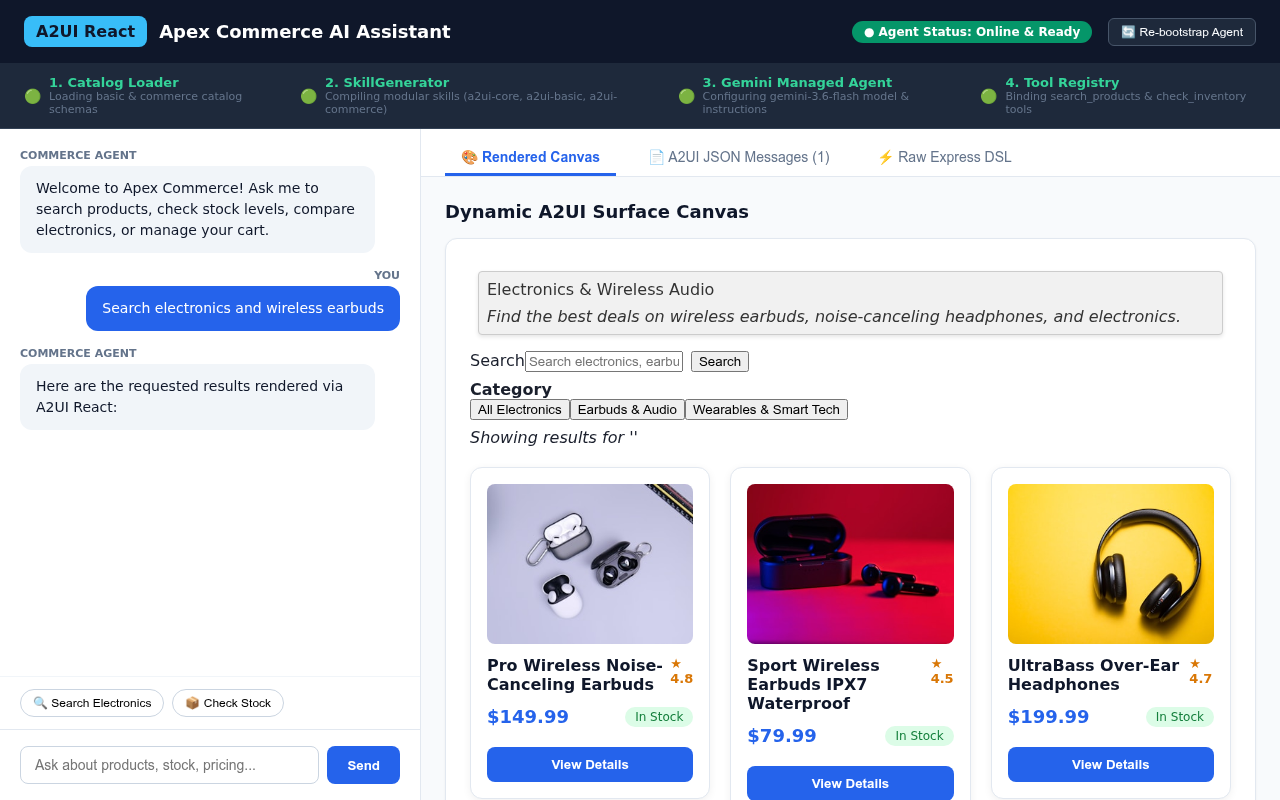
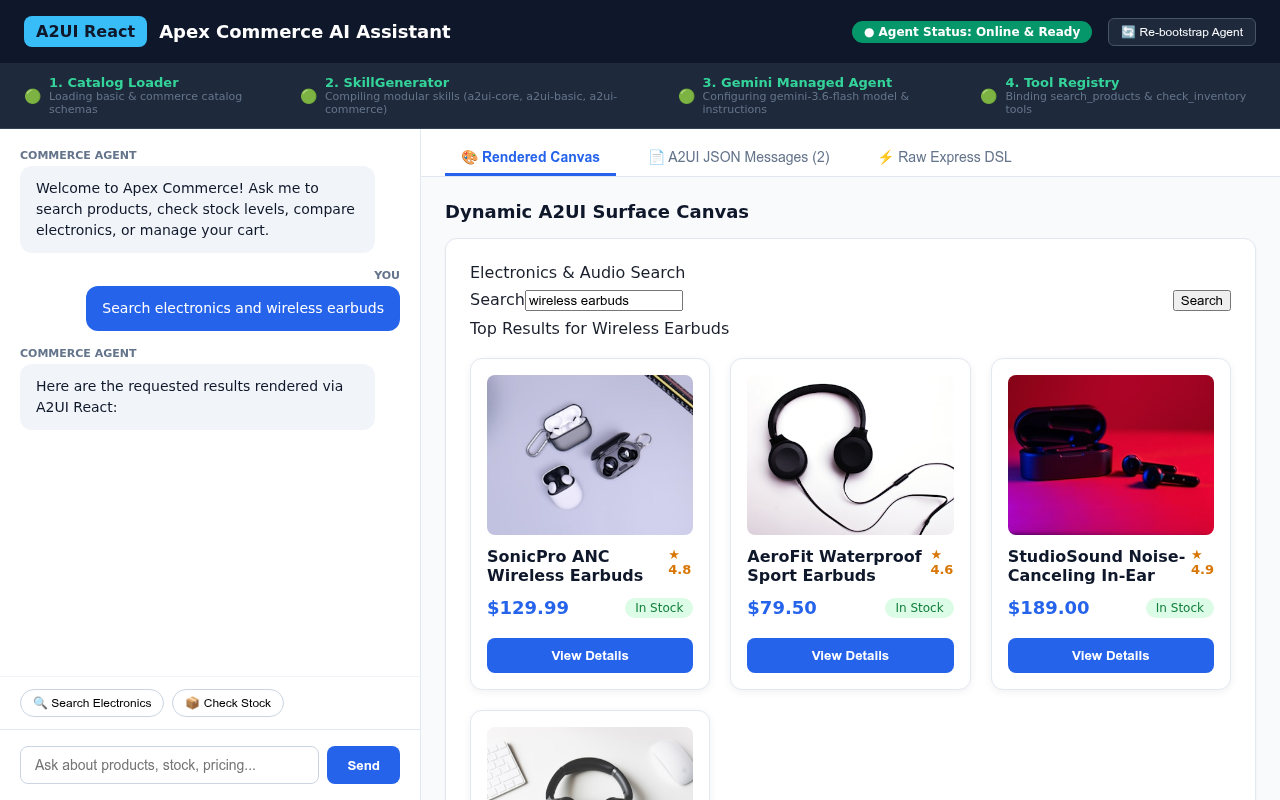
refactor(express): rearchitect surface management via prompt generator and ExpressCompiler without modifying catalog or message processor code

Changed region(s): [[0.375, 0.3125, 0.9688, 1.0], [0.7812, 0.4688, 0.9688, 1.0]]

diff --git a/renderers/web_core/src/v0_9/processing/message-processor.ts b/renderers/web_core/src/v0_9/processing/message-processor.ts
@@ -326,21 +326,11 @@ export class MessageProcessor<T extends ComponentApi> {
     }
 
     if (this.model.getSurface(surfaceId)) {
-      this.model.deleteSurface(surfaceId);
+      throw new A2uiStateError(`Surface ${surfaceId} already exists.`);
     }
 
     const surface = new SurfaceModel<T>(surfaceId, catalog, theme, sendDataModel ?? false);
     this.model.addSurface(surface);
-
-    if ('components' in payload && Array.isArray((payload as any).components)) {
-      this.processUpdateComponentsMessage({
-        version: (message as any).version ?? 'v1.0',
-        updateComponents: {
-          surfaceId,
-          components: (payload as any).components,
-        },
-      } as any);
-    }
   }
 
   private processDeleteSurfaceMessage(message: DeleteSurfaceMessage): void {

diff --git a/samples/community/commerce_agent_demo/client/src/App.tsx b/samples/community/commerce_agent_demo/client/src/App.tsx
@@ -121,12 +121,25 @@ export default function App() {
       ],
     );
 
-    return new MessageProcessor(
+    const proc = new MessageProcessor(
       [basicCatalog, supersetCatalogV1, commerceCatalog],
       (action: any) => {
         console.log('Intercepted A2UI Action:', action);
       },
     );
+
+    // Synchronously create shared surface main on initialization
+    proc.processMessages([
+      {
+        version: 'v1.0',
+        createSurface: {
+          surfaceId: 'main',
+          catalogId: 'https://a2ui.org/specification/v1_0/catalogs/basic/catalog.json',
+        },
+      },
+    ]);
+
+    return proc;
   }, []);
 
   // Subscribe to A2UI surface group model changes

diff --git a/renderers/react/src/v0_9/catalog/basic/components/TextField.tsx b/renderers/react/src/v0_9/catalog/basic/components/TextField.tsx
@@ -46,7 +46,6 @@ export const TextField = createComponentImplementation(TextFieldApi, ({props}) =
           id={uniqueId}
           className={inputClasses}
           value={props.value || ''}
-          placeholder={props.placeholder}
           onChange={onChange}
         />
       ) : (
@@ -55,7 +54,6 @@ export const TextField = createComponentImplementation(TextFieldApi, ({props}) =
           type={type}
           className={inputClasses}
           value={props.value || ''}
-          placeholder={props.placeholder}
           onChange={onChange}
         />
       )}

diff --git a/renderers/web_core/src/v0_9/basic_catalog/components/basic_components.ts b/renderers/web_core/src/v0_9/basic_catalog/components/basic_components.ts
@@ -373,9 +373,6 @@ export const TextFieldApi = {
       ...CommonProps,
       'label': DynamicStringSchema.describe('The text label for the input field.'),
       'value': DynamicStringSchema.describe('The value of the text field.').optional(),
-      'placeholder': DynamicStringSchema.describe(
-        'The placeholder text for the input field.',
-      ).optional(),
       'variant': z
         .enum(['longText', 'number', 'shortText', 'obscured'])
         .default('shortText')

diff --git a/agent_sdks/python/a2ui_agent/src/a2ui/inference_formats/experimental/express/compiler.py b/agent_sdks/python/a2ui_agent/src/a2ui/inference_formats/experimental/express/compiler.py
@@ -209,6 +209,7 @@ class ExpressCompiler:
         catalog_id: str = "",
         is_final: bool = True,
         version: Optional[str] = None,
+        emit_create_surface: bool = True,
     ) -> list[dict[str, Any]]:
         """Compiles plain A2UI Express DSL into standard A2UI wire JSON.
 
@@ -423,7 +424,24 @@ class ExpressCompiler:
             compiled_components.extend(ctx.extra_components)
             ctx.extra_components = []
 
-            if target_version in ("v0.9", "v0.9.1"):
+            if not emit_create_surface:
+                result_messages.append({
+                    "version": target_version,
+                    SurfaceOperation.UPDATE_COMPONENTS: {
+                        "surfaceId": scope_surf_id,
+                        "components": compiled_components,
+                    },
+                })
+                if data_model:
+                    result_messages.append({
+                        "version": target_version,
+                        SurfaceOperation.UPDATE_DATA: {
+                            "surfaceId": scope_surf_id,
+                            "path": "/",
+                            "value": data_model,
+                        },
+                    })
+            elif target_version in ("v0.9", "v0.9.1"):
                 result_messages.extend([
                     {
                         "version": target_version,
@@ -559,6 +577,9 @@ class ExpressCompiler:
                         f" Allowed values are: {enum_vals}"
                     )
             comp_dict[prop_name] = mapped_val
+
+            if self.version in ("v0.9", "v0.9.1") and "placeholder" in comp_dict:
+                del comp_dict["placeholder"]
 
             if (
                 prop_name == "value"

diff --git a/agent_sdks/python/a2ui_agent/src/a2ui/inference_formats/experimental/express/parser.py b/agent_sdks/python/a2ui_agent/src/a2ui/inference_formats/experimental/express/parser.py
@@ -34,6 +34,7 @@ class ExpressParser(Parser):
         catalog: Union[Catalog[Any, Any], A2uiCatalog],
         surface_id: str = "main",
         version: str = "v1.0",
+        emit_create_surface: bool = True,
     ):
         """Initializes the Express parser with a catalog schema and target version.
 
@@ -41,10 +42,12 @@ class ExpressParser(Parser):
             catalog: Catalog or A2uiCatalog schema helper.
             surface_id: Surface identifier for compiled messages.
             version: Target A2UI protocol version ("v0.9", "v0.9.1", or "v1.0").
+            emit_create_surface: Whether to emit createSurface messages.
         """
         self.catalog = catalog
         self.surface_id = surface_id
         self.version = version
+        self.emit_create_surface = emit_create_surface
 
     def has_format_content(self, content: str, *, complete: bool = False) -> bool:
         """Checks whether the given content string contains A2UI Express sentinel tags.
@@ -84,7 +87,10 @@ class ExpressParser(Parser):
         compiler = ExpressCompiler(self.catalog, version=self.version)
         try:
             return compiler.compile(
-                format_content, surface_id=self.surface_id, is_final=is_final
+                format_content,
+                surface_id=self.surface_id,
+                is_final=is_final,
+                emit_create_surface=self.emit_create_surface,
             )
         except (SyntaxError, ValueError) as e:
             orig_err = e

diff --git a/agent_sdks/python/a2ui_agent/src/a2ui/inference_formats/experimental/express/format.py b/agent_sdks/python/a2ui_agent/src/a2ui/inference_formats/experimental/express/format.py
@@ -35,6 +35,7 @@ class ExpressFormat(InferenceFormat):
         surface_id: str = "main",
         examples_path: Optional[str] = None,
         version: str = "v1.0",
+        emit_create_surface: bool = True,
     ):
         """Initializes the Express DSL inference format.
 
@@ -43,11 +44,13 @@ class ExpressFormat(InferenceFormat):
             surface_id: The surface identifier for layout targeting.
             examples_path: Optional path to markdown files containing examples.
             version: Target A2UI protocol version ("v0.9", "v0.9.1", or "v1.0").
+            emit_create_surface: Whether to emit createSurface messages during compilation.
         """
         self.catalog = catalog
         self.surface_id = surface_id
         self.examples_path = examples_path
         self.version = version
+        self.emit_create_surface = emit_create_surface
         self._prompt_generator: Optional[ExpressPromptGenerator] = None
 
     def _ensure_catalog(self) -> None:
@@ -73,4 +76,9 @@ class ExpressFormat(InferenceFormat):
     def parser(self) -> Parser:
         """The parser instance configured for this Express format."""
         self._ensure_catalog()
-        return ExpressParser(self.catalog, self.surface_id, version=self.version)
+        return ExpressParser(
+            self.catalog,
+            self.surface_id,
+            version=self.version,
+            emit_create_surface=self.emit_create_surface,
+        )

diff --git a/agent_sdks/python/a2ui_agent/tests/express/test_compiler.py b/agent_sdks/python/a2ui_agent/tests/express/test_compiler.py
@@ -808,6 +808,19 @@ root = Text("Body")"""
         self.assertEqual(envelopes[0]["createSurface"]["surfaceId"], "header-surface")
         self.assertEqual(envelopes[1]["createSurface"]["surfaceId"], "body-surface")
 
+    def test_compilation_emit_create_surface_false(self):
+        """Validates that emit_create_surface=False outputs updateComponents and updateDataModel without createSurface."""
+        compiler = ExpressCompiler(self.catalog)
+        dsl = """$/user = "Alice"
+root = Text("Hello Alice")"""
+        envelopes = compiler.compile(dsl, surface_id="main", emit_create_surface=False)
+        self.assertEqual(len(envelopes), 2)
+        self.assertIn("updateComponents", envelopes[0])
+        self.assertEqual(envelopes[0]["updateComponents"]["surfaceId"], "main")
+        self.assertIn("updateDataModel", envelopes[1])
+        self.assertEqual(envelopes[1]["updateDataModel"]["surfaceId"], "main")
+        self.assertEqual(envelopes[1]["updateDataModel"]["value"], {"user": "Alice"})
+
 
 if __name__ == "__main__":
     unittest.main()

diff --git a/agent_sdks/python/a2ui_agent/src/a2ui/inference_formats/experimental/express/prompt_generator.py b/agent_sdks/python/a2ui_agent/src/a2ui/inference_formats/experimental/express/prompt_generator.py
@@ -88,9 +88,7 @@ The host compiler will compile your A2UI Express output into the correct JSON en
 
 14. Required actions: Parameters named 'action' (or annotated in component signatures) are strictly required. You must pass a valid Event (e.g. Event("click")) or function call. If no specific action is described in the user request, you must provide a dummy click event like Event("click") instead of passing null or omitting the parameter.
 
-15. Surface targeting: Output `surface(surfaceId)` to specify or target a user interface surface:
-    surface("dashboard-surface-1")
-    root = Card(...)'''
+15. Surface targeting: Do NOT output `createSurface` or `surface(...)` commands. The active surface context is automatically managed. Simply output component declarations starting with `root = Component(...)` and data model assignments starting with `$/path = ...`.'''
 
 
 def _schema_allows_databinding(prop_schema: Any) -> bool:

diff --git a/samples/community/commerce_agent_demo/screenshot.py b/samples/community/commerce_agent_demo/screenshot.py
@@ -38,7 +38,7 @@ def capture_screenshots(url: str = "http://localhost:5180"):
             time.sleep(4)
 
             # Click quick prompt button
-            page.get_by_text("Search Electronics").click()
+            page.locator("button:has-text('Search Electronics')").click()
             print("Submitted query 'Search Electronics'...")
 
             # Wait for A2UI components to render on surface canvas

diff --git a/samples/community/commerce_agent_demo/server.py b/samples/community/commerce_agent_demo/server.py
@@ -211,7 +211,7 @@ def main():
         s2c_schema=basic_cat.s2c_schema,
         common_types_schema=basic_cat.common_types_schema,
     )
-    express_fmt = ExpressFormat(catalog=combined_cat)
+    express_fmt = ExpressFormat(catalog=combined_cat, version="v0.9.1", emit_create_surface=False)
     parser_inst = express_fmt.parser
 
     if not args.serve:

diff --git a/conformance/test_data/skills/express_basic_monolithic.skill.md b/conformance/test_data/skills/express_basic_monolithic.skill.md
@@ -65,9 +65,7 @@ The host compiler will compile your A2UI Express output into the correct JSON en
 
 14. Required actions: Parameters named 'action' (or annotated in component signatures) are strictly required. You must pass a valid Event (e.g. Event("click")) or function call. If no specific action is described in the user request, you must provide a dummy click event like Event("click") instead of passing null or omitting the parameter.
 
-15. Surface targeting: Output `surface(surfaceId)` to specify or target a user interface surface:
-    surface("dashboard-surface-1")
-    root = Card(...)
+15. Surface targeting: Do NOT output `createSurface` or `surface(...)` commands. The active surface context is automatically managed. Simply output component declarations starting with `root = Component(...)` and data model assignments starting with `$/path = ...`.
 
 ## Positional Component Signatures
 
